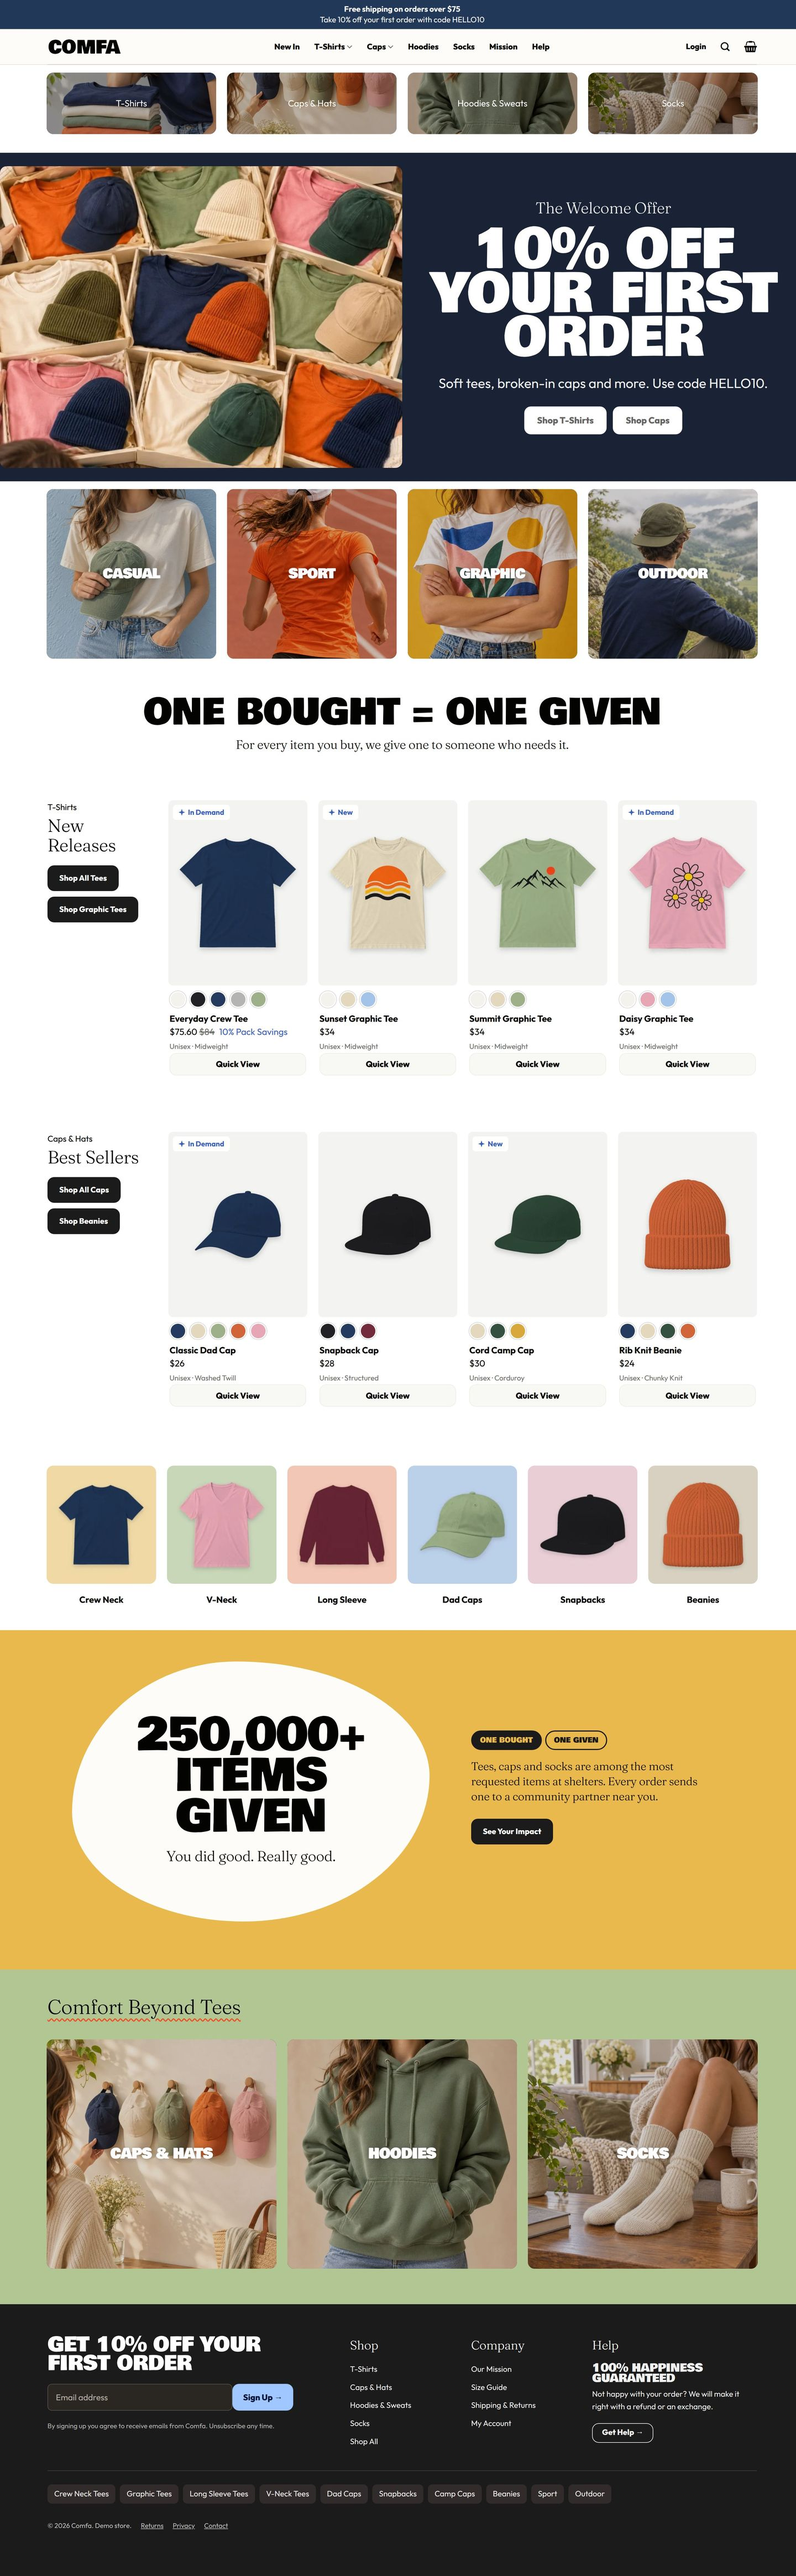
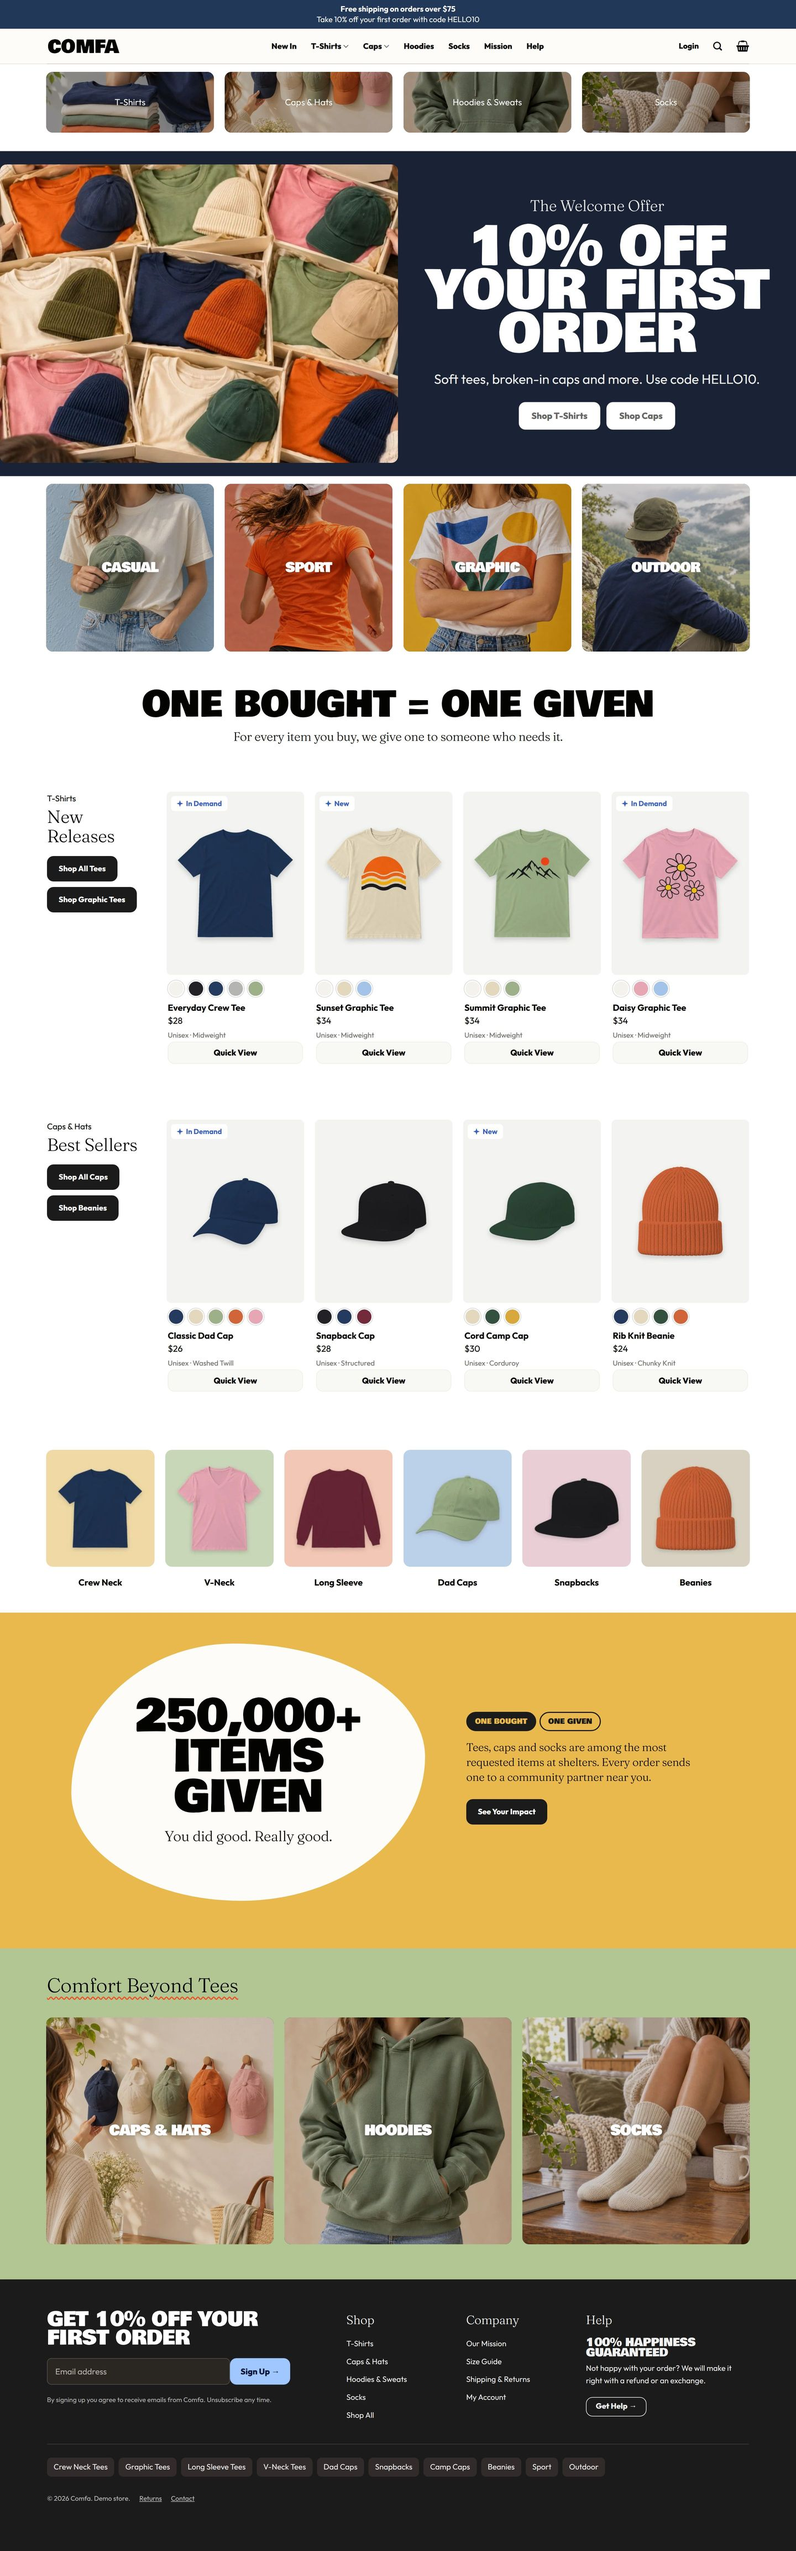
Catalog: default every product to its Single pack; sort and filter by the lowest price shown on cards

diff --git a/comfa/setup/check-demo.php b/comfa/setup/check-demo.php
@@ -30,6 +30,8 @@ foreach ( $cf_catalog['products'] as $cf_item ) {
 	$cf_expect( $cf_product->get_image_id() && count( $cf_product->get_gallery_image_ids() ) >= 2, $cf_item['slug'] . ': images missing.' );
 	$cf_default = function_exists( 'cf_default_variation' ) ? cf_default_variation( $cf_product ) : null;
 	$cf_expect( $cf_default && $cf_default->is_purchasable() && $cf_default->is_in_stock(), $cf_item['slug'] . ': default variation is not purchasable.' );
+	// Cards show the default variation's price; WooCommerce sorts and filters by the lowest one.
+	$cf_expect( $cf_default && (float) $cf_default->get_price() === (float) $cf_product->get_variation_price( 'min' ), $cf_item['slug'] . ': default variation is not the lowest-priced one.' );
 	foreach ( $cf_children as $cf_child_id ) {
 		$cf_child = wc_get_product( $cf_child_id );
 		$cf_pack  = get_term_by( 'slug', $cf_child->get_attributes()['pa_pack'], 'pa_pack' );

diff --git a/comfa/child-theme/comfa-child/inc/archive.php b/comfa/child-theme/comfa-child/inc/archive.php
@@ -89,3 +89,23 @@ function cf_archive_toolbar() {
 	woocommerce_catalog_ordering();
 	echo '</div></div>';
 }
+
+// Cards show the lowest (default pack) price. WooCommerce sorts "high to low", filters and sizes the price slider by the highest variation price.
+if ( ! is_admin() ) {
+	add_filter(
+		'posts_clauses',
+		function ( $clauses ) {
+			foreach ( array( 'where', 'orderby' ) as $part ) {
+				$clauses[ $part ] = str_replace( 'wc_product_meta_lookup.max_price', 'wc_product_meta_lookup.min_price', $clauses[ $part ] );
+			}
+			return $clauses;
+		},
+		20
+	);
+	add_filter(
+		'woocommerce_price_filter_sql',
+		function ( $sql ) {
+			return str_replace( 'MAX( max_price )', 'MAX( min_price )', $sql );
+		}
+	);
+}

diff --git a/comfa/README.md b/comfa/README.md
@@ -27,7 +27,7 @@ Script chép child theme, ảnh và nội dung UX Builder vào site, kích hoạ
 
 - **Trang chủ, footer, mega menu, 404, khối giới thiệu sản phẩm (`pdp-story`):** sửa bằng UX Builder.
 - **Màu, font, header, layout danh mục và sản phẩm:** Flatsome > Theme Options.
-- **Sản phẩm:** sản phẩm biến thể chuẩn của WooCommerce với ba thuộc tính Pack, Color, Size. Giá gói là giá khuyến mãi của biến thể; nhãn "10% Pack Savings" được tính từ đó. Ô màu và ô size dùng tính năng Swatches có sẵn của Flatsome.
+- **Sản phẩm:** sản phẩm biến thể chuẩn của WooCommerce với ba thuộc tính Pack, Color, Size. Giá gói là giá khuyến mãi của biến thể; nhãn "10% Pack Savings" được tính từ đó. Gói mặc định của mỗi sản phẩm là gói rẻ nhất (Single); thẻ sản phẩm hiện giá này, và sắp xếp, lọc theo giá cũng tính theo giá thấp nhất. Ô màu và ô size dùng tính năng Swatches có sẵn của Flatsome.
 - **Nhãn "In Demand" / "New"** và dòng Product Highlight: custom field `_cf_badge` và `_cf_highlight` của sản phẩm. Ghi chú dưới size: `_cf_size_notes`.
 - **Ngưỡng freeship, mã chào mừng, dòng chữ trên thanh khuyến mãi:** filter `cf_settings` (xem `inc/setup.php`).
 - **Thêm màu sản phẩm mẫu:** sửa `setup/catalog.json`, chạy `python3 comfa/setup/make-art.py` (cần Pillow và numpy) rồi chạy lại `setup.sh`.
